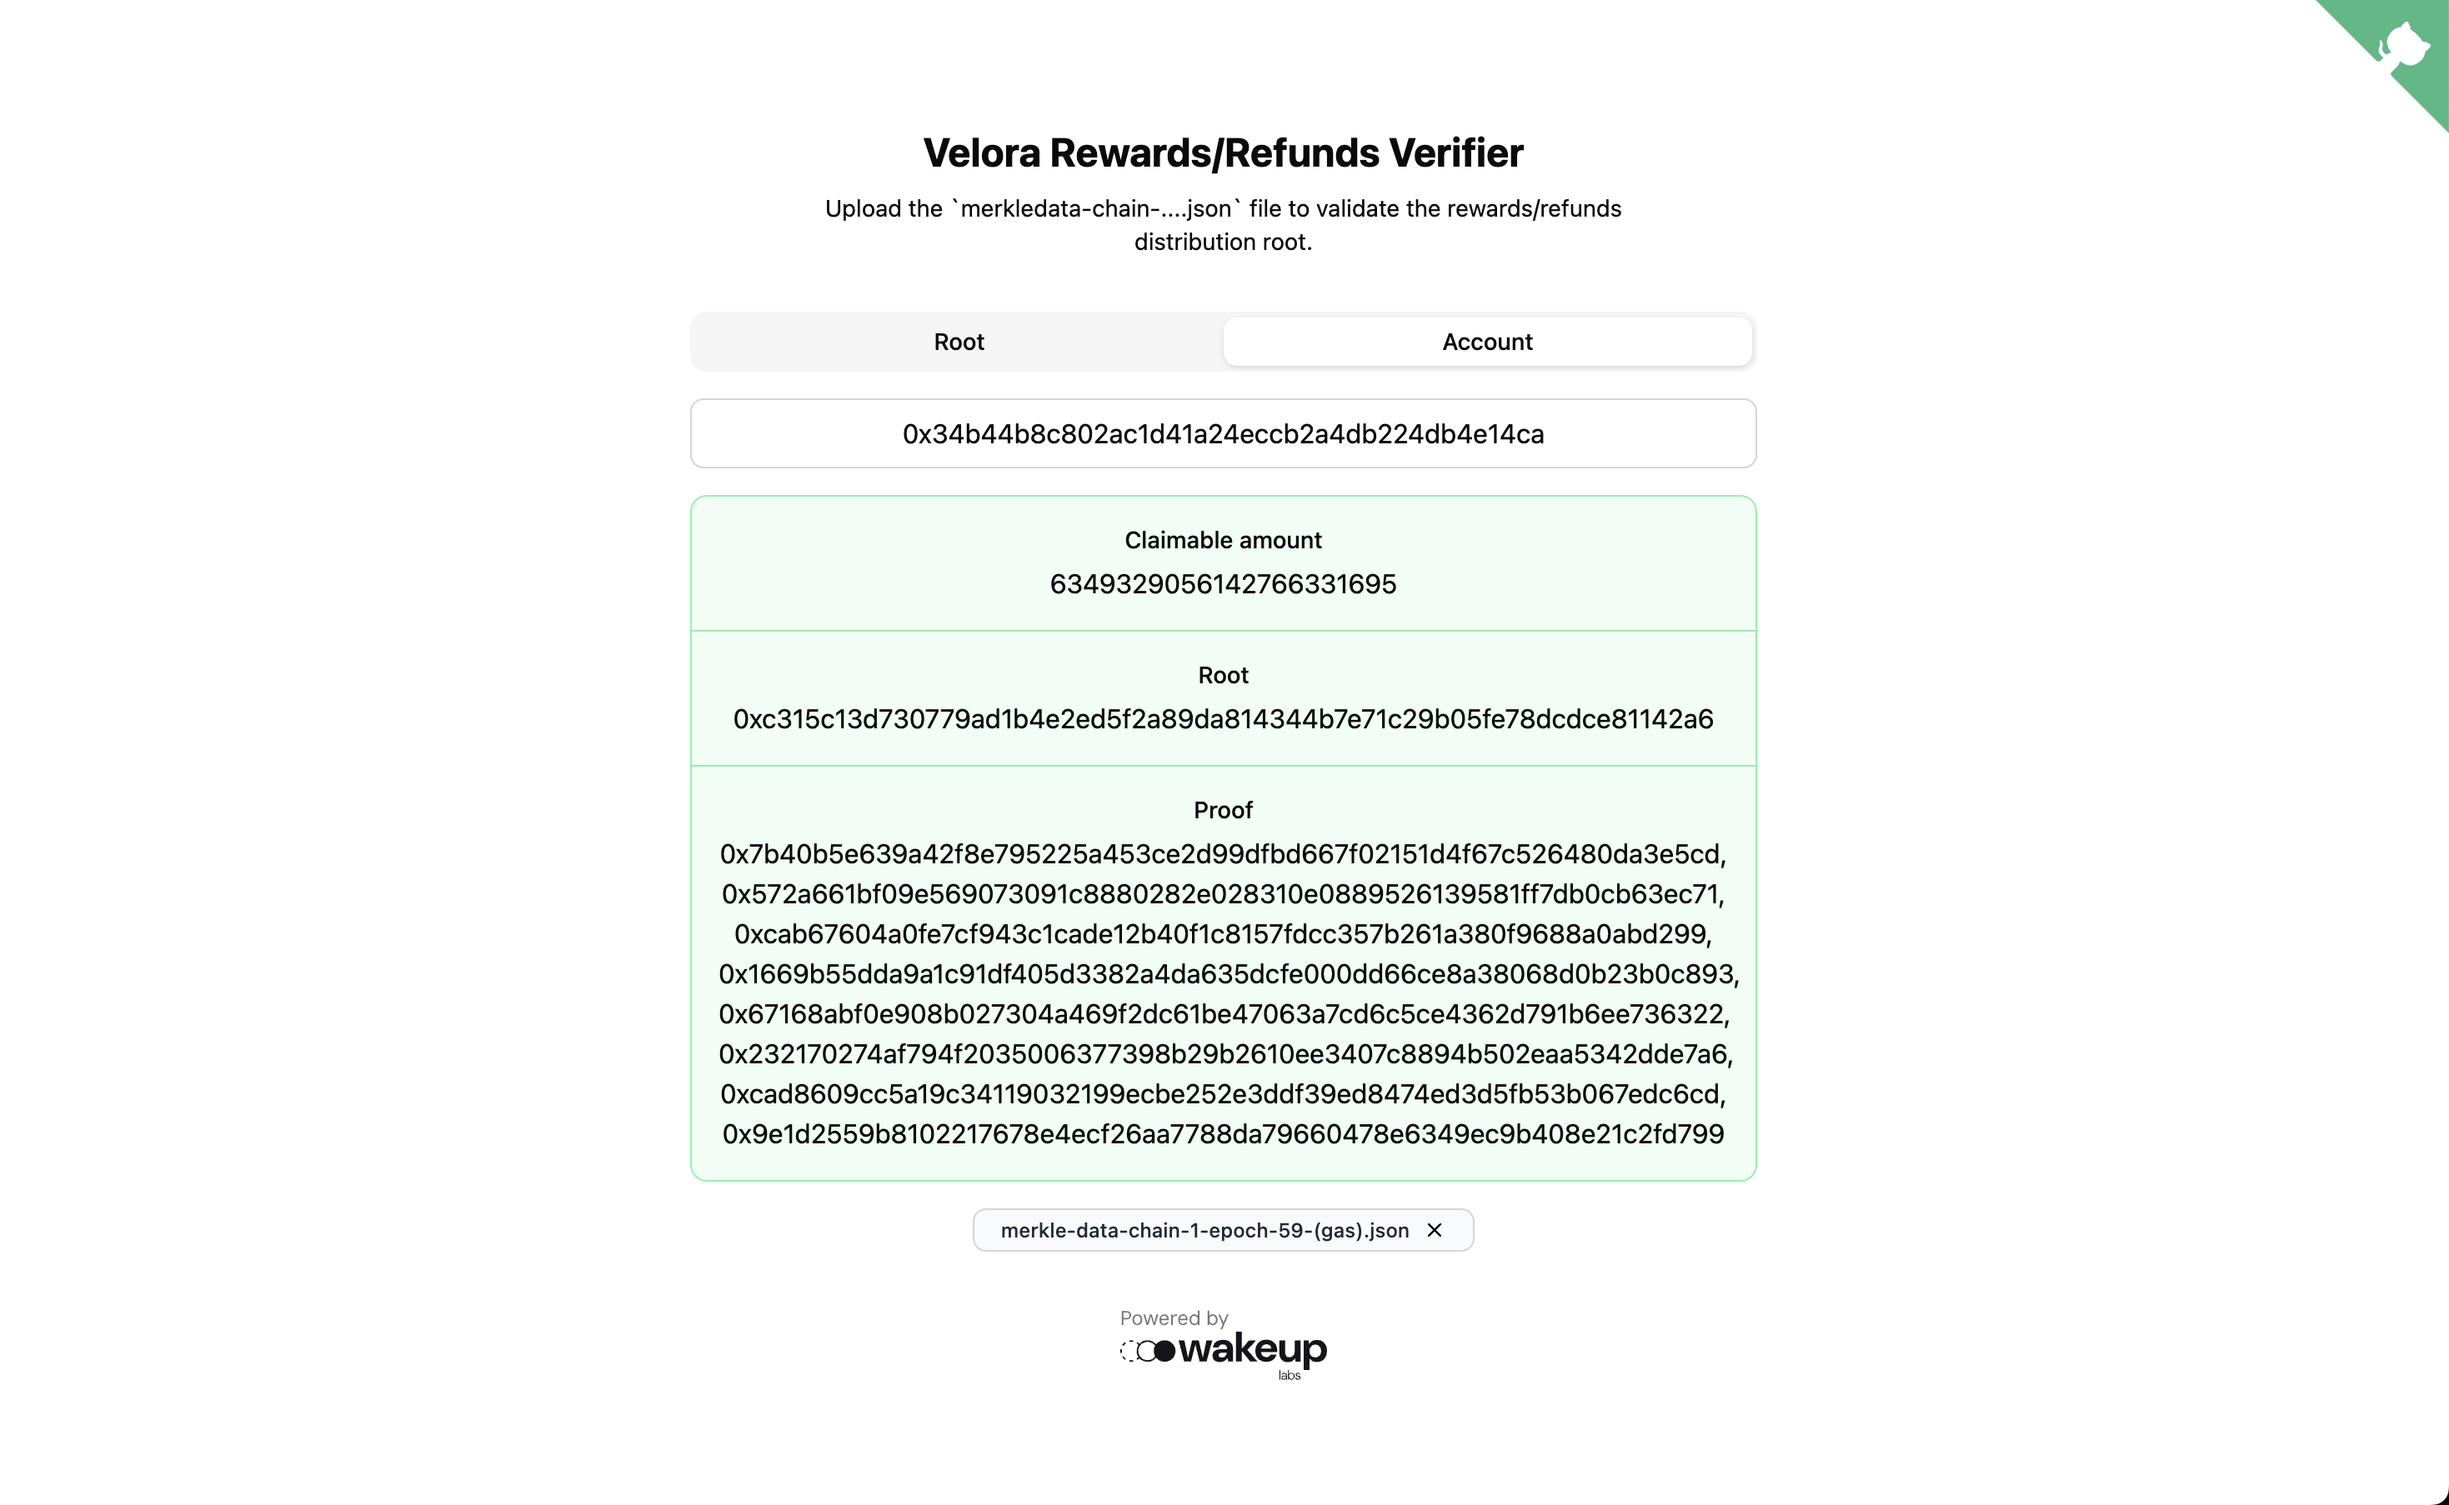
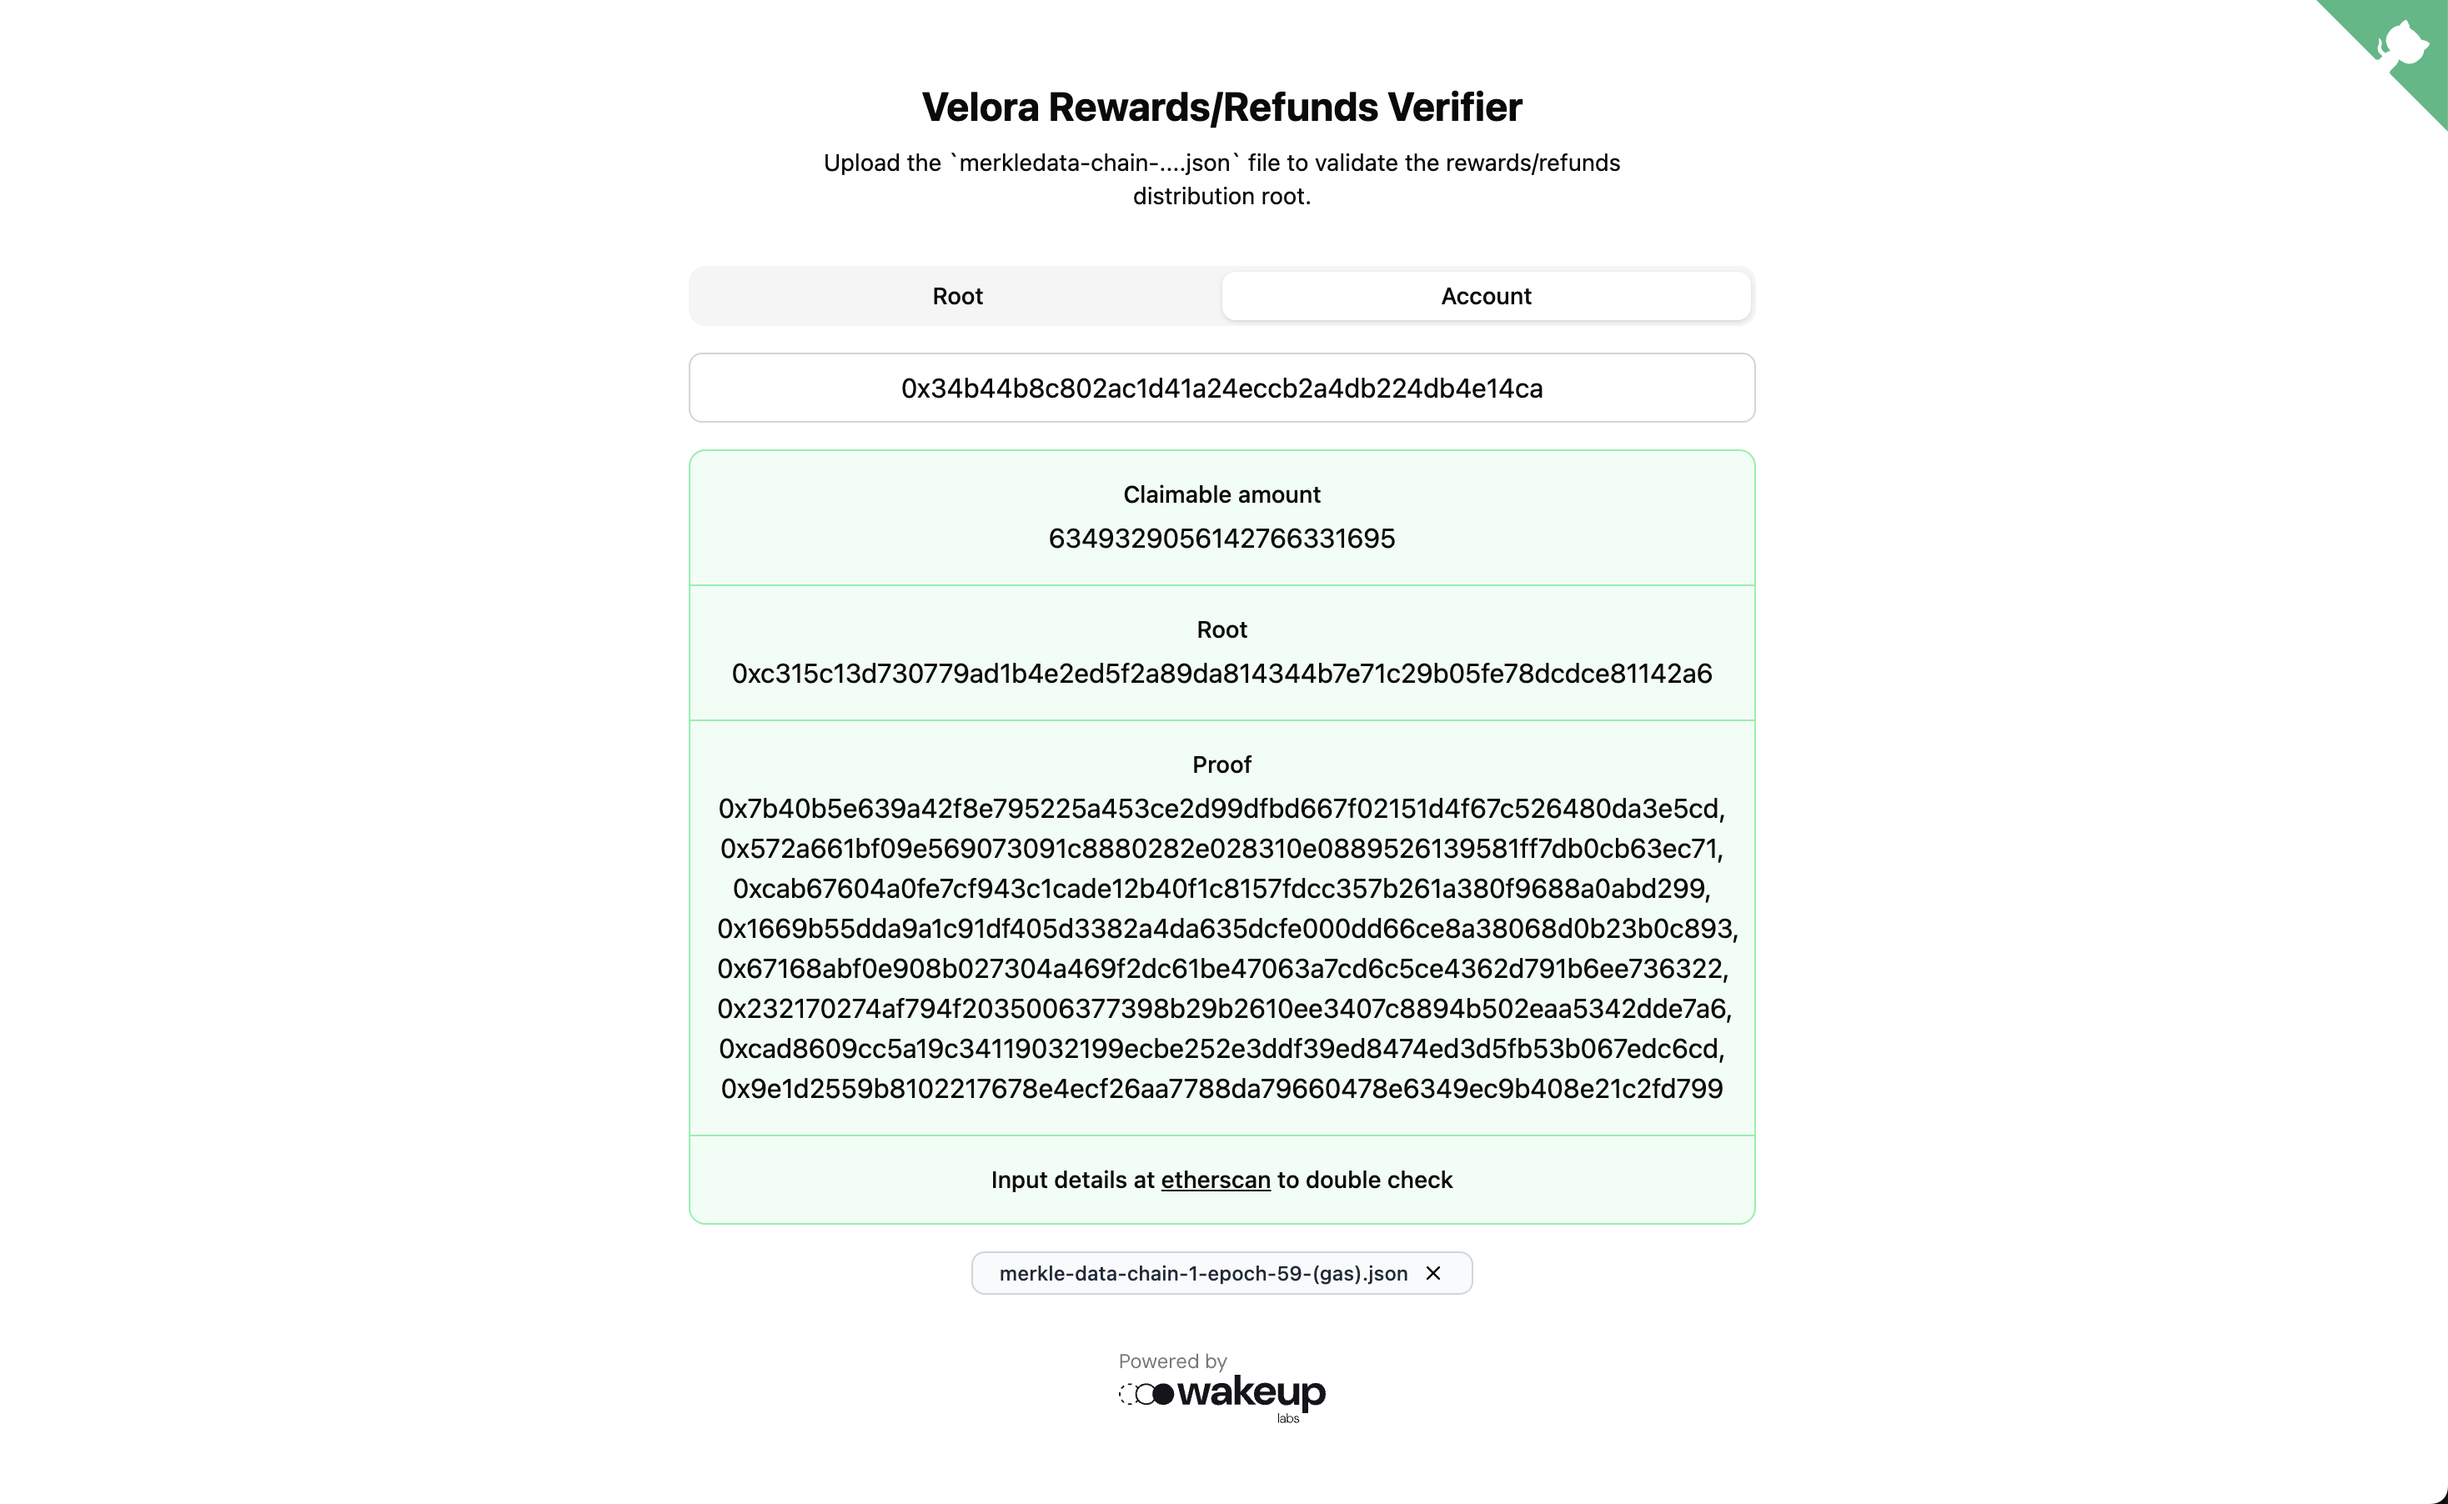
cleanup

Changed region(s): [[0.279, 0.1863, 0.7129, 0.9313], [0.3409, 0.0621, 0.6509, 0.1863]]

diff --git a/packages/ui/src/components/claim-search.tsx b/packages/ui/src/components/claim-search.tsx
@@ -41,33 +41,52 @@ export const ClaimSearch: React.FC<{
       />
 
       {proof ? (
-        <div
-          className={cn(
-            "flex flex-col w-full border divide-y border-gray-300 rounded-lg bg-gray-50 overflow-scroll mt-2",
-            proof.isValid
-              ? "bg-green-50 border-green-300 divide-green-300"
-              : "bg-red-50 border-red-300 divide-red-300"
-          )}
-        >
-          <div className="p-4 text-center space-y-1">
-            <div className="font-medium text-sm">Claimable amount</div>
-            <div>{proof.proof.amount}</div>
+        <div>
+          <div
+            className={cn(
+              "flex flex-col w-full border divide-y border-gray-300 rounded-lg bg-gray-50 overflow-scroll mt-2",
+              proof.isValid
+                ? "bg-green-50 border-green-300 divide-green-300"
+                : "bg-red-50 border-red-300 divide-red-300"
+            )}
+          >
+            <div className="p-4 text-center space-y-1">
+              <div className="font-medium text-sm">
+                Claimable amount in file
+              </div>
+              <div>{proof.proof.amount}</div>
+            </div>
+            <div className="p-4 text-center space-y-1">
+              <div className="font-medium text-sm">Root in file</div>
+              <div>{root}</div>
+            </div>
+            <div className="p-4 text-center space-y-1">
+              <div className="font-medium text-sm">Proof in file</div>
+              <div>{proof.proof.path.join(", ")}</div>
+            </div>
+            <div className="p-4 text-center space-y-1">
+              <div className=" font-medium text-sm">
+                Input details at{" "}
+                <a
+                  href="https://eth-sepolia.blockscout.com/address/0xEca298c34670898F5E06c2856658e096675099E3?tab=read_contract#0x3c8c6cc1"
+                  target="_blank"
+                  className="underline"
+                >
+                  etherscan
+                </a>{" "}
+                to double check
+              </div>
+            </div>
           </div>
+
           <div className="p-4 text-center space-y-1">
-            <div className="font-medium text-sm">Root</div>
-            <div>{root}</div>
-          </div>
-          <div className="p-4 text-center space-y-1">
-            <div className="font-medium text-sm">Proof</div>
-            <div>{proof.proof.path.join(", ")}</div>
-          </div>
-          <div className="p-4 text-center space-y-1">
-            <div className=" font-medium text-sm">
-              Input details at{" "}
-              <a href="https://eth-sepolia.blockscout.com/address/0xEca298c34670898F5E06c2856658e096675099E3?tab=read_contract#0x3c8c6cc1" target="_blank" className="underline">
-                etherscan
-              </a>{" "}
-              to double check
+            <div
+              className={cn(
+                "font-medium text-sm",
+                proof.isValid ? "text-green-500" : "text-red-500"
+              )}
+            >
+              {proof.isValid ? "Proof is valid ✅" : "Proof is invalid ❌"}
             </div>
           </div>
         </div>
